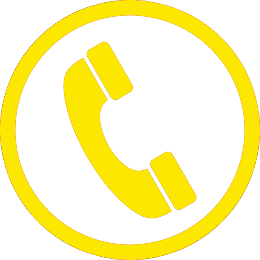
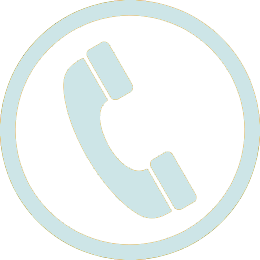
added img

diff --git a/css/common.css b/css/common.css
@@ -24,7 +24,7 @@
 }
 
 .header-img {
-    color: yellow;
+    color: rgba(219, 244, 246, 0.936);
     max-width: 150px;
     margin-top: 30px;
     margin-right: 30px;
